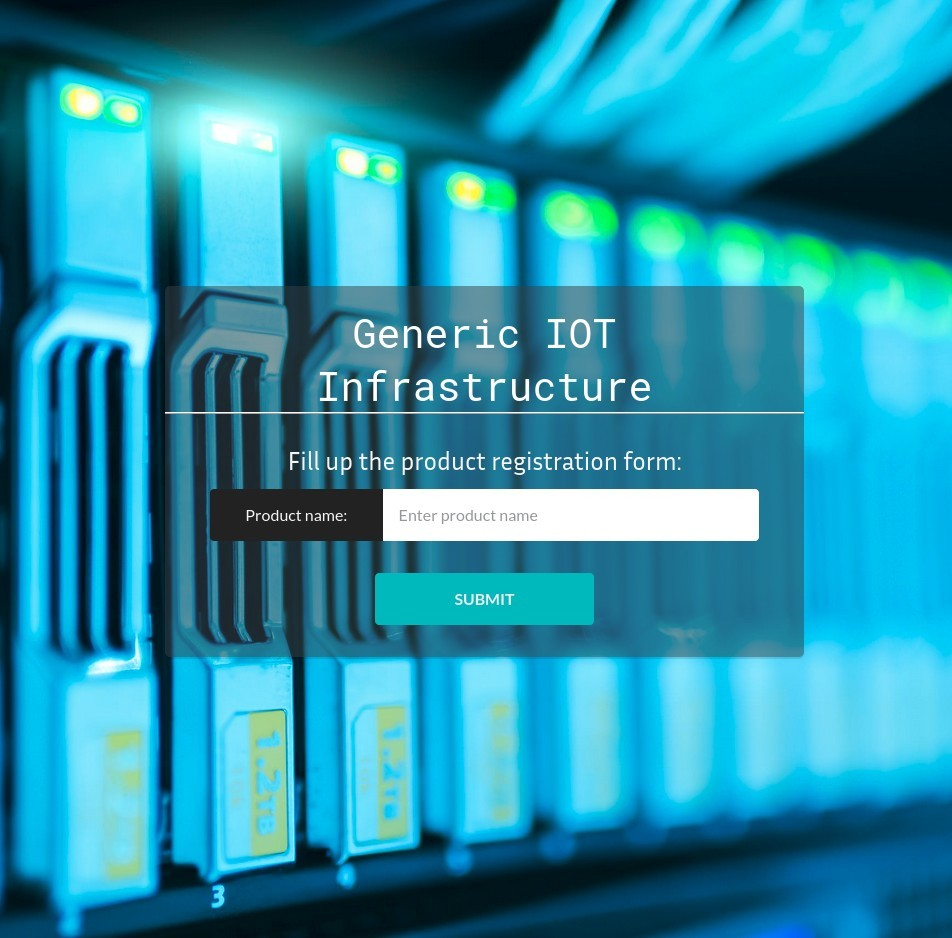
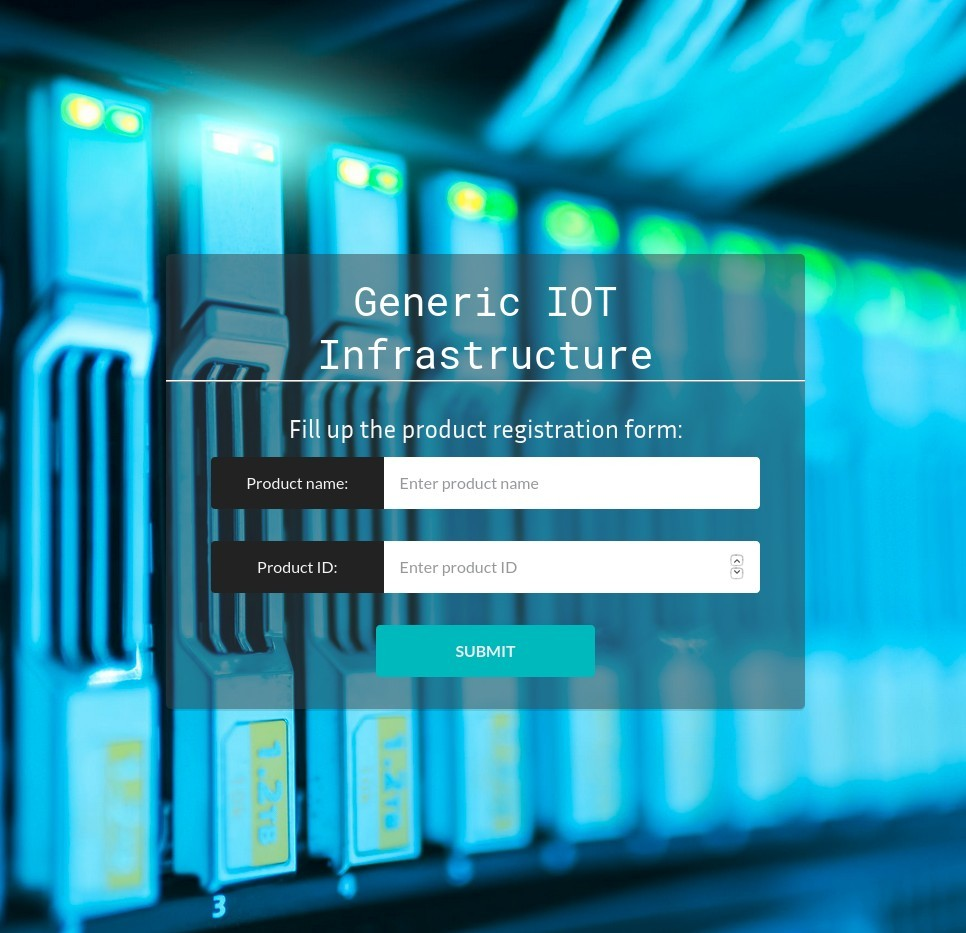
update

diff --git a/java/eclipse/html pages/product_registration_page/product_registration.css b/java/eclipse/html pages/product_registration_page/product_registration.css
@@ -64,7 +64,8 @@ input {
   transition: background-color .3s;
 }
 
-.form input[type="text"]{
+.form input[type="text"],
+.form input[type="number"] {
   width: 100%;
 }
 .form input[type="submit"] {
@@ -74,6 +75,7 @@ input {
 
 .form-registration label,
 .form-registration input[type="text"],
+.form-registration input[type="number"],
 .form-registration input[type="submit"] {
   border-radius: 0.25rem;
   padding: 1rem;
@@ -90,13 +92,16 @@ input {
   width: 45%;
 }
 
-.form-registration input[type="text"] {
+.form-registration input[type="text"],
+.form-registration input[type="number"] {
   background-color: #ffffff;
   border-bottom-left-radius: 0;
   border-top-left-radius: 0;
 }
 .form-registration input[type="text"]:focus, 
-.form-registration input[type="text"]:hover {
+.form-registration input[type="text"]:hover,
+.form-registration input[type="number"]:focus, 
+.form-registration input[type="number"]:hover  {
   background-color: #95acaf;
 }
 

diff --git a/java/eclipse/html pages/product_registration_page/product_registration.html b/java/eclipse/html pages/product_registration_page/product_registration.html
@@ -19,6 +19,11 @@
       </div>
 
       <div class="form-field">
+        <label for="productID">Product ID:</label>
+        <input id="productID" type="number" class="form-input" placeholder="Enter product ID" required>
+      </div>
+
+      <div class="form-field">
         <input type="submit" value="Submit">
       </div>
 						
